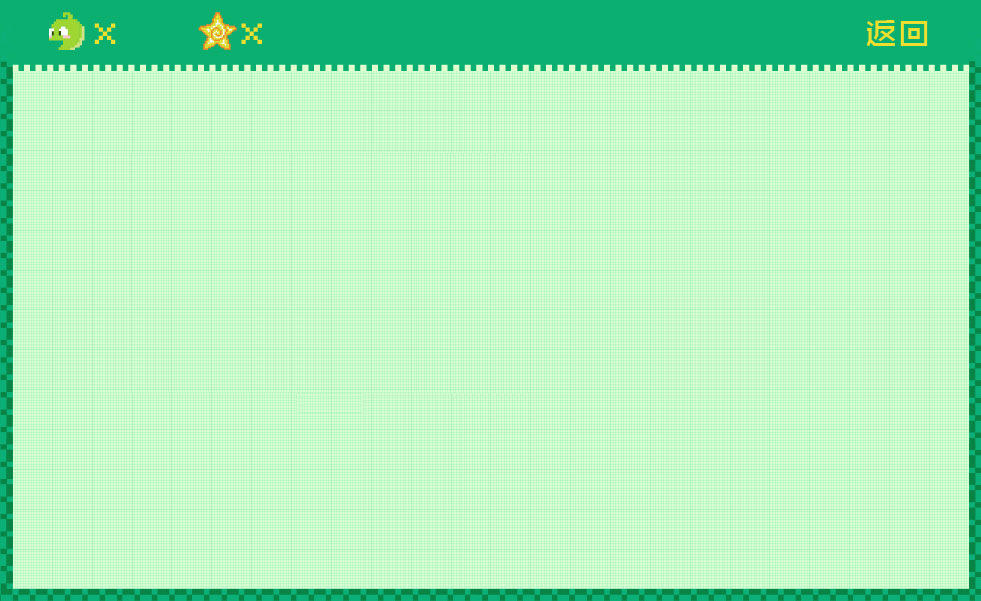
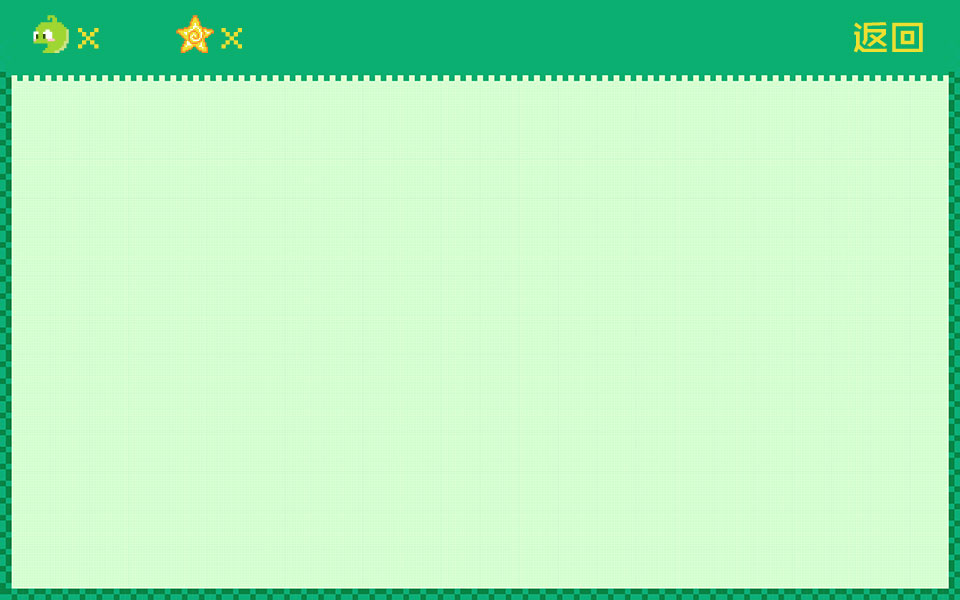
尺寸修改

diff --git a/index.html b/index.html
@@ -9,6 +9,7 @@
     <div id="main">
         <span id="score">0</span>
         <span id="star_score">0</span>
+        <a class="btn_stop" id="action" href="javascript:;"></a>
         <canvas id="canvas"></canvas>
 
         <div class="start_page">
@@ -20,12 +21,32 @@
                 <a class="bean bean04" href="javascript:;" bean_style="04"></a>
             </div>
             <a id="start" href="javascript:;"></a>
+            <iframe class="btn_follow btn_followed" id="btn_follow" src="http://open.qzone.qq.com/like?url=http%3A%2F%2Fuser.qzone.qq.com%2F1405248419&type=button&width=400&height=30&style=3" allowtransparency="true" scrolling="no" border="0" frameborder="0" style="width:400px;height:30px;border:none;overflow:hidden;"></iframe>
             <div class="game_introduction">
                 游戏说明游戏说明游戏说明游戏说明游戏说明游戏说明游戏说明
                 游戏说明游戏说明游戏说明游戏说明游戏说明游戏说明游戏说明
                 游戏说明游戏说明游戏说明游戏说明游戏说明游戏说明游戏说明
             </div>
         </div>
+
+        <div class="end_page">
+            <span class="bean_num">0</span>
+            <span class="star_num">0</span>
+
+            <div class="share_text">
+                恭喜吃到<b class="eat_num">XX</b>颗豆子，获得<b class="eat_score">XXX</b>积分，
+                打败贴吧<b class="eat_rate">XX</b>%的小伙伴！
+            </div>
+
+            <div class="share">
+                <a class="kongjian" href="javascript:;"></a>
+                <a class="sina" href="javascript:;"></a>
+                <a class="txwb" href="javascript:;"></a>
+                <a class="baidu" href="javascript:;"></a>
+            </div>
+
+        </div>
+
     </div>
 
     <script src="scripts/main.js"></script>
@@ -60,7 +81,21 @@
 
 
                 snake.onDie = function(){
-                    alert('啊哦，你挂了呃');
+
+                    $('.bean_num').text($('#score').text());
+                    $('.star_num').text($('#star_score').text());
+
+                    $('.end_page').show();
+
+
+
+                    $('.end_page').find('a').click(function(e){
+
+                        shareHandler($(this).attr('class'));
+
+                    });
+
+
                 };
 
                 $('.start_page').hide();
@@ -83,6 +118,97 @@
                 bean_style = $(this).attr('bean_style');
 
             });
+
+
+            $('#action').click(function(e){
+                e.preventDefault();
+
+                if ( $(this).hasClass('btn_start') ){
+                    $(this).removeClass('btn_start').addClass('btn_stop');
+                    snake.start();
+                }else{
+                    $(this).removeClass('btn_stop').addClass('btn_start');
+                    snake.stop();
+                }
+
+            });
+
+
+            var shareHandler = function (target) {
+
+                var isTouch = "ontouchstart" in window;
+                var inPC = (window.OneRingRequest !== undefined) && (window.OneRingStreaming !== undefined); //PC client
+                switch (target) {
+                    case 'txwb':
+                        if (!isTouch && !inPC) {
+                            var newwindow = window.open("about:blank", '分享到腾讯微博', 'width=600,height=400');
+                        }
+                        break;
+                    case 'kongjian':
+                        if (!isTouch && !inPC) {
+                            var newwindow = window.open("about:blank", '分享到QQ空间', 'width=600,height=400');
+                        }
+                        break;
+                    case 'sina':
+                        if (!isTouch && !inPC) {
+                            var newwindow = window.open("about:blank", '分享到新浪微博', 'width=600,height=400');
+                        }
+                        break;
+                    case 'baidu':
+                        if (!isTouch && !inPC) {
+                            var newwindow = window.open("about:blank", '分享到百度贴吧', 'width=600,height=600');
+                        }
+                        break;
+                }
+
+                var isTouch = "ontouchstart" in window;
+                var inPC = (window.OneRingRequest !== undefined) && (window.OneRingStreaming !== undefined); //PC client
+                var url = encodeURIComponent('http://tieba.baidu.com/f?kw=%CD%E3%B6%B9%BC%D4'),
+                    title = encodeURIComponent('你有木有自己的专属神兽头像？'),
+                    desc = encodeURIComponent('换上专属神兽豌小豆头像，角逐豌豆荚激烈的抢楼大战。连续两周，每晚 20:00 带着你的专属神兽豌小豆头像抢楼，不抢不散！'),
+                    pic_url = 'about:blank';
+
+                switch (target) {
+                    case 'txwb':
+                        var url = 'http://share.v.t.qq.com/index.php?c=share&a=index&url='+url+'&appkey=801476866&assname=&title=' + desc + '&pic=' + pic_url;
+                        if (isTouch || inPC) {
+                            window.location.href = url;
+                        } else {
+                            newwindow.location.href = url;
+                            newwindow.focus();
+                        }
+                        break;
+                    case 'kongjian':
+                        var url = 'http://sns.qzone.qq.com/cgi-bin/qzshare/cgi_qzshare_onekey?url='+ url +'&summary=' + desc + '&title=' + title + '&pics=' + pic_url;
+                        if (isTouch || inPC) {
+                            window.location.href = url;
+                        } else {
+                            newwindow.location.href = url;
+                            newwindow.focus();
+                        }
+                        break;
+                    case 'sina':
+                        var url = 'http://service.weibo.com/share/share.php?url='+url+'&type=button&ralateUid=1727978503&language=zh_cn&appkey=3017506897&title=' + desc + '&searchPic=false&style=number&sudaref=service.weibo.com&pic=' + pic_url;
+                        if (isTouch || inPC) {
+                            window.location.href = url;
+                        } else {
+                            newwindow.location.href = url;
+                            newwindow.focus();
+                        }
+                        break;
+                    case 'baidu':
+                        var url = 'http://tieba.baidu.com/f/commit/share/openShareApi?url=' + url +'&title=' + title + '&desc=' + desc + '&pic=' + pic_url;
+                        if (isTouch || inPC) {
+                            window.location.href = url;
+                        } else {
+                            newwindow.location.href = url;
+                            newwindow.focus();
+                        }
+                        break;
+                }
+
+            };
+
 
         });
 

diff --git a/styles/main.css b/styles/main.css
@@ -2,17 +2,17 @@
     background: url(../pics/bg.jpg) no-repeat;
     margin: 0 auto;
     position: relative;
-    width: 980px;
-    height: 660px;
+    width: 960px;
+    height: 600px;
 }
 .start_page{
     position: absolute;
     top:0px;
     left:0px;
     z-index: 10;
-    width: 980px;
+    width: 960px;
     height: 660px;
-    background:url(../pics/start_page.jpg) no-repeat 0 0 #91ecaf;
+    background:url(../pics/start_page.jpg) no-repeat -10px 0 #91ecaf;
 }
 .start_page .beans .bean{
     display: block;
@@ -23,16 +23,16 @@
     height: 216px;
 }
 .start_page .beans .bean01{
-    left:107px;
+    left:100px;
 }
 .start_page .beans .bean02{
-    left:315px;
+    left:307px;
 }
 .start_page .beans .bean03{
-    left:521px;
+    left:514px;
 }
 .start_page .beans .bean04{
-    left:726px;
+    left:719px;
 }
 .start_page .beans .selected{
     border:1px solid #f00;
@@ -48,21 +48,47 @@
     color:#344b07;
 }
 #canvas{
-    width:956px;
-    height: 522px;
-    margin:0px 0 0 13px;
+    width:936px;
+    height: 507px;
+    margin:13px 0 0 13px;
 }
 #score,#star_score{
     float: left;
-    margin:23px 0 0 135px;
-    font-family: Arial;
+    display: block;
+    width: 60px;
+    margin: 9px 0 12px 130px;
     font-size: 40px;
     font-weight: bold;
-    color:#333;
+    color:#ecde33;
+    font-family: fantasy;
 }
 #star_score{
-    margin-left:50px;
+    margin-left:88px;
 }
+#btn_follow{
+    position: absolute;
+    top:400px;
+    left:150px;
+    display: block;
+    width: 86px;
+    height: 86px;
+
+}
+
+#action{
+    display: block;
+    width: 38px;
+    height: 49px;
+    float: left;
+    margin: 10px 0 0 160px;
+}
+.btn_start{
+    background: url(../pics/btn_start.jpg) no-repeat 0 0 transparent;
+}
+.btn_stop{
+    background: url(../pics/btn_stop.jpg) no-repeat 0 0 transparent;
+}
+
 #start{
     display: block;
     position: absolute;
@@ -75,4 +101,51 @@
 p{
     float: left;
     margin-left: 30px;
+}
+
+.end_page{
+    display: none;
+    background: url(../pics/end_page.jpg) no-repeat -10px 0 transparent;
+    position: absolute;
+    top:0px;
+    left:0px;
+    z-index: 10;
+    width: 960px;
+    height: 601px;
+}
+
+.bean_num,.star_num{
+    position: absolute;
+    top:54px;
+    left:377px;
+    font-size: 64px;
+    color:#ecde33;
+    font-family: fantasy;
+}
+.star_num{
+    left:680px;
+}
+
+.share_text{
+    position: absolute;
+    top:275px;
+    left:210px;
+    width:570px;
+    color:#334a06;
+    font-size: 32px;
+    font-weight: bold;
+    font-family: '微软雅黑','黑体';
+}
+.end_page .share{
+    position: absolute;
+    left:490px;
+    top:415px;
+    width: 300px;
+}
+.end_page .share a{
+    display: block;
+    width: 50px;
+    height: 50px;
+    float: left;
+    margin-right: 15px;
 }

diff --git a/scripts/main.js b/scripts/main.js
@@ -7,13 +7,13 @@
 
 var Config = {
     CANVAS: {
-        width: 960,
-        height: 520
+        width: 936,
+        height: 507
     },
     SNAKE_MAX_LENGTH: 312,
     START_NUM : 4,
     SIZE: {
-        length: 40
+        length: 39
     },
     DIRECTION: {
         up: 0,
@@ -100,7 +100,7 @@ Food.prototype._draw = function(){
 
         var i = parseInt(Math.random() * 10);
 
-        if ( i > 7 ){
+        if ( i >= 9 ){
             food_dot = dot_star;
         }else{
             food_dot = dot;
@@ -150,11 +150,9 @@ Snake.prototype.createFood = function(){
         }else{
 
             if ( snake_body.length == Config.SNAKE_MAX_LENGTH ){
-                console.log('success');
                 this.onSuccess();
                 break;
             }
-            console.log('fail');
         }
     }
 
